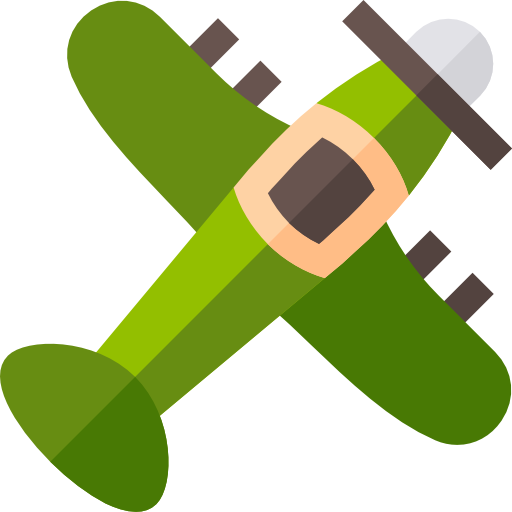
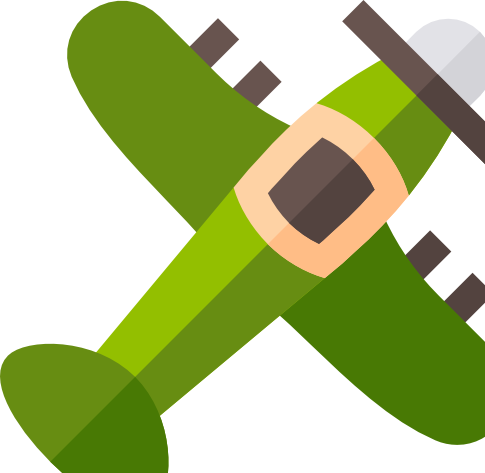
Corrijo error al insertar imagenes

diff --git a/TP1/Entregable/js/canvas.js b/TP1/Entregable/js/canvas.js
@@ -157,18 +157,21 @@ function insertarImagen(reader){
         if(imagen.width < width){ 
             canvas.width = imagen.width;
             canvas.height = imagen.height;
-            dibujarImagen(this, imagen.width, imagen.height); 
+            width = canvas.width;
+            height = canvas.height;
+            dibujarImagen(this, width, height); 
         }else if(imagen.width > width || imagen.height > height){ //Si la imagen es mas grande que el canvas...
             //la imagen se adapta al ancho del canvas y el alto del canvas se adapta al de la imagen
             //Poniendo un limite de altura del canvas de 500px para que no se permite scrollear
             let max_height = 500;
             if(imagen.height > max_height){
                 canvas.height = max_height;
-                height = max_height;
-                dibujarImagen(this, width, max_height);
+                height = canvas.height;
+                dibujarImagen(this, width, height);
             }else{
                 canvas.height = imagen.height;
-                dibujarImagen(this, width, imagen.height);
+                height = canvas.height;
+                dibujarImagen(this, width, height);
             }
         }
     });
